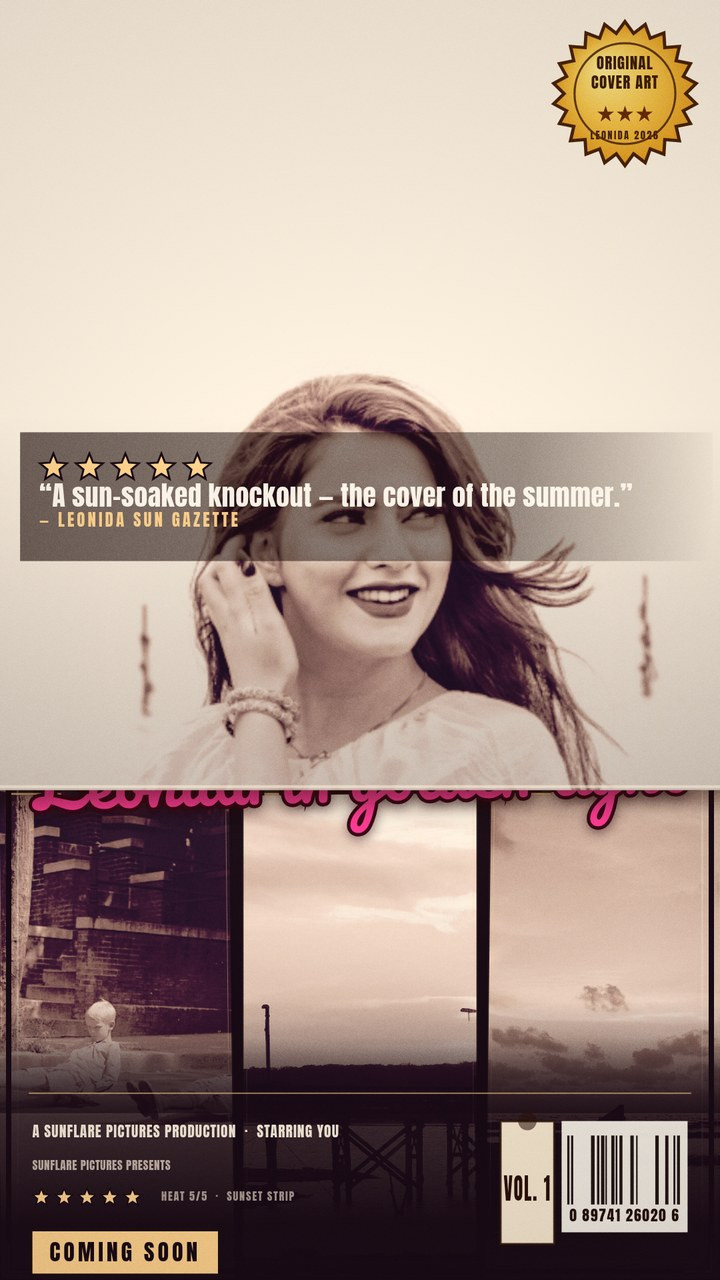
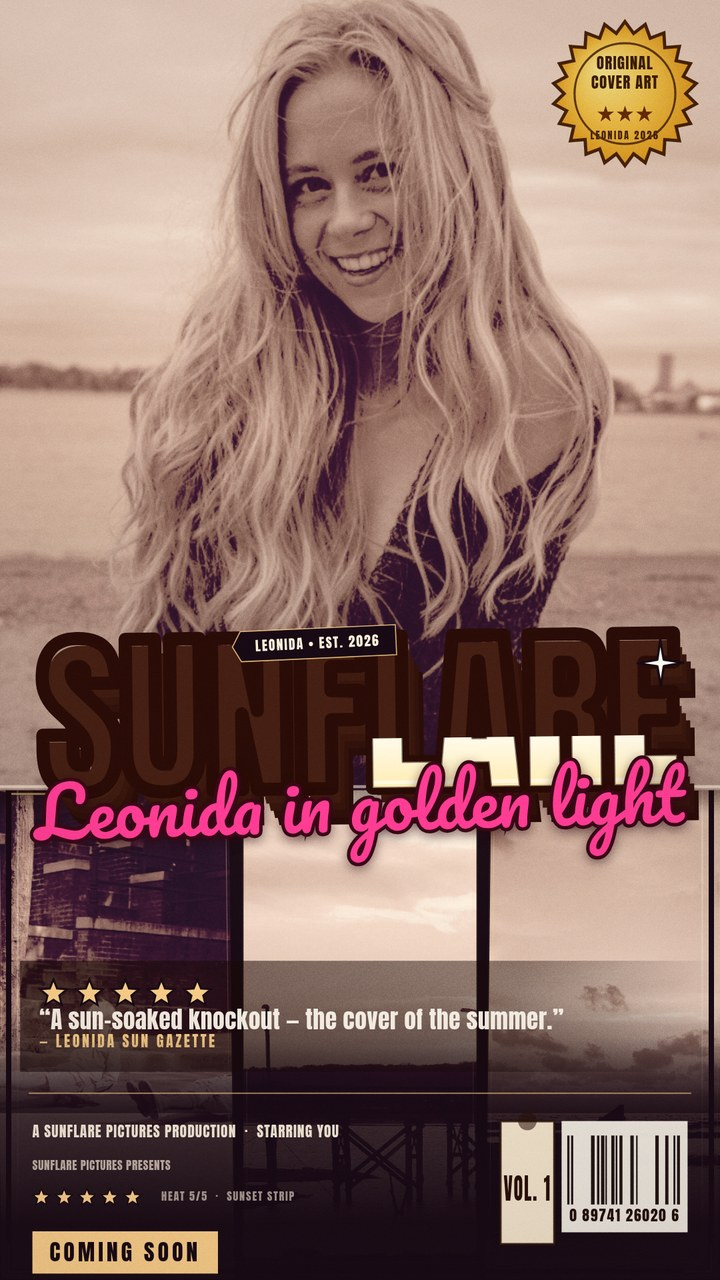
Sunflare: round 5 title/hero/quote fix

diff --git a/app/src/render.js b/app/src/render.js
@@ -4,9 +4,9 @@
 // network.
 //
 // The look is a golden-hour key-art collage: the photo field runs edge to edge,
-// a striped-chrome title sits OVER the art, the pop-out hero breaks in front of
-// it, and a retail band along the bottom carries the billing block, barcode and
-// press quote the way a real poster does.
+// a striped-chrome title sits OVER the art, the pop-out hero breaks out of the
+// grid beneath that title, and a retail band along the bottom carries the
+// billing block, barcode and press quote the way a real poster does.
 
 import { layoutPanels, panelGap } from './layouts.js';
 import { gradeById, gradeLut, skinScore, skinTone, rgba, mixHex } from './grades.js';
@@ -69,14 +69,16 @@ export function planFrame(layoutId, width, height) {
   }
 
   // A tall sheet sets the title across the lower-middle of the art, the way a
-  // key-art poster does, so the hero's face in the top third stays clear of the
-  // pink script. The press quote sits just above it, the retail band below.
+  // key-art poster does. The hero's face sits in the upper part of its panel
+  // (see photoAnchor), so the masthead starts below it. The press quote lives
+  // in the clear band just above the billing footer -- never across the face.
   const inset = Math.round(width * 0.055);
+  const quoteH = Math.round(height * 0.062);
   return {
     landscape, tall, margin, bandH,
     bleed: layoutId === 'hero',
-    masthead: { x: inset, y: Math.round(height * 0.452), w: width - inset * 2, h: Math.round(height * (tall > 1.5 ? 0.268 : 0.272)) },
-    quote: { x: inset, y: Math.round(height * 0.352), w: width - inset * 2, h: Math.round(height * 0.072) },
+    masthead: { x: inset, y: Math.round(height * 0.49), w: width - inset * 2, h: Math.round(height * 0.235) },
+    quote: { x: inset, y: height - bandH - quoteH - Math.round(height * 0.020), w: width - inset * 2, h: quoteH },
     band: { x: 0, y: height - bandH, w: width, h: bandH },
     footer: { x: inset, y: height - bandH, w: width - inset * 2, h: bandH },
     panels: { x: 0, y: 0, w: width, h: height },
@@ -84,10 +86,11 @@ export function planFrame(layoutId, width, height) {
 }
 
 /** Where a framed face sits inside its panel: right of centre on a landscape
- *  sheet (the title takes the left), lower-centre on a tall one. */
+ *  sheet (the title takes the left), upper-centre on a tall one so the masthead
+ *  and the press quote both sit clear of the face. */
 export function photoAnchor(plan) {
   if (plan.landscape) return { x: 0.52, y: 0.40 };
-  return { x: 0.5, y: 0.56 };
+  return { x: 0.5, y: 0.34 };
 }
 
 /* ------------------------------------------------------------------ helpers */
@@ -792,8 +795,9 @@ function drawTicketTab(ctx, x, y, w, h, palette, label = 'VOL. 1') {
 
 /**
  * The five-star press quote. On a landscape sheet it sits in the top-left
- * corner over the art; on a tall sheet it sits under the title. Stars first,
- * then the quote, then the paper that said it.
+ * corner over the art; on a tall sheet it sits in the clear band just above the
+ * billing footer. Neither position crosses the hero's face. Stars first, then
+ * the quote, then the paper that said it.
  */
 function drawPressQuote(ctx, state, plan, palette, size) {
   const q = plan.quote;
@@ -959,11 +963,11 @@ function drawVignette(ctx, w, h, palette) {
 }
 
 /**
- * The pop-out hero: the hero panel's photo cut out at a larger scale and drawn
- * IN FRONT of the title, so the subject breaks the grid the way a key-art
- * cut-out does. A soft shadow under it and a fade into the retail band keep it
- * from looking pasted on. Tall sheets clip it below the title so the lettering
- * stays clean.
+ * The pop-out hero: the hero panel's photo cut out at a larger scale so the
+ * subject breaks the grid the way a key-art cut-out does. It is painted before
+ * the masthead, so the title always sits on top of it -- the hero never hides
+ * the lettering. A soft shadow under it and a fade into the retail band keep it
+ * from looking pasted on. Tall sheets clip it below the title band.
  */
 function drawPopout(ctx, state, plan, palette, graded, size) {
   if (!state.popout) return;
@@ -1098,8 +1102,10 @@ export function drawCover(ctx, state, images, width, height) {
 
   if (state.posterInk !== false) drawInkFrame(ctx, plan, palette, size);
 
-  drawMasthead(ctx, state, plan, palette, size);
+  // The hero pops out larger than its panel, but the title always paints on
+  // top of it: the winning formula is a huge gradient title OVER the art.
   drawPopout(ctx, state, plan, palette, graded, size);
+  drawMasthead(ctx, state, plan, palette, size);
 
   if (state.kit?.quote) drawPressQuote(ctx, state, plan, palette, size);
   drawSealTop(ctx, state, plan, palette, size);

diff --git a/app/src/shots.js b/app/src/shots.js
@@ -12,9 +12,9 @@
 
 /**
  * The four judged scenes, all golden hour: the landscape cover is the hero
- * mosaic (the app's own default) with the sunlit hero popped out in front of the
- * title; the tall crops restack the same cast so the contact sheet never shows
- * one photo three times.
+ * mosaic (the app's own default) with the sunlit hero popped out over its panel
+ * while the title still paints on top; the tall crops restack the same cast so
+ * the contact sheet never shows one photo three times.
  */
 export const SHOT_PRESETS = {
   cover1: { layout: 'mosaic', grade: 'golden', style: 'chrome', preview: 'landscape', popout: true, photo: 'hero,beach,car,pool,tower' },
@@ -55,7 +55,7 @@ export async function runShot(shot, query, studio) {
   // A per-panel crop table with genuinely different values for each index; the
   // photo rotates through the picked list so the cast varies too.
   const CROPS = [
-    [1.04, 0.02, -0.06], [1.19, -0.34, 0.24], [1.09, 0.30, -0.26],
+    [1.04, 0.00, 0.00], [1.19, -0.34, 0.24], [1.09, 0.30, -0.26],
     [1.27, 0.16, 0.32], [1.04, -0.14, -0.34], [1.16, 0.36, 0.12],
     [1.13, -0.28, -0.20], [1.24, 0.08, 0.30], [1.02, -0.06, 0.04],
   ];

diff --git a/app/index.html b/app/index.html
@@ -149,7 +149,7 @@
         <h2>Poster Finish</h2>
         <label class="switch"><input id="posterInk" type="checkbox" checked> <span>Poster ink frame</span></label>
         <label class="switch"><input id="skyGlow" type="checkbox" checked> <span>Sky glow</span></label>
-        <label class="switch"><input id="popout" type="checkbox" checked> <span>Pop-out hero (in front of title)</span></label>
+        <label class="switch"><input id="popout" type="checkbox" checked> <span>Pop-out hero (title stays on top)</span></label>
         <label class="switch"><input id="compare" type="checkbox"> <span>Before / after (original)</span></label>
         <label class="switch"><input id="grain" type="checkbox" checked> <span>Film grain</span></label>
         <label class="switch"><input id="vignette" type="checkbox" checked> <span>Vignette</span></label>

diff --git a/app/src/layouts.js b/app/src/layouts.js
@@ -58,7 +58,9 @@ export function layoutPanels(id, area, gap) {
     case 'mosaic': {
       // One dominant hero on the right, a stack of three down the left and a
       // wide strip along the bottom -- five panels, every edge slanted.
-      const hw = area.w * 0.655;
+      // The hero panel is capped at 44% of the cover width so the mosaic keeps
+      // at least half the width: a wider hero panel would sit over the title.
+      const hw = Math.min(area.w * 0.655, area.w * 0.44);
       const hero = rect(area.x + area.w - hw, area.y, hw, area.h * 0.78, { hero: true, skew: -slant });
       const leftW = area.w - hw - gap * 0.4;
       const thirdH = (area.h * 0.78 - gap * 2) / 3;

diff --git a/README.md b/README.md
@@ -4,7 +4,7 @@
 [![rank](https://make.fun/badge/gta6-cover-art-01/basecil/gta6-cover-art-01/rank.svg)](https://make.fun/bounty/gta6-cover-art-01)
 [![reward](https://make.fun/badge/gta6-cover-art-01/basecil/gta6-cover-art-01/reward.svg)](https://make.fun/bounty/gta6-cover-art-01)
 
-A golden-hour GTA-style cover studio for the [Make GTA 6 Cover Art](https://make.fun/bounty/gta6-cover-art-01) bounty: drop in a photo and it opens on a hero-mosaic key-art poster — five slanted panels with one dominant sunlit face, the striped-chrome title over the art, and the hero cut out in front of it — then lets you build a grid, a comic, a triptych or any of ten layouts and export a PNG at whatever size you need. No build step, no network, no account: plain static files on a tiny Node server.
+A golden-hour GTA-style cover studio for the [Make GTA 6 Cover Art](https://make.fun/bounty/gta6-cover-art-01) bounty: drop in a photo and it opens on a hero-mosaic key-art poster — five slanted panels with one dominant sunlit face, the striped-chrome title over the art, and the hero cut out over the grid beneath that title — then lets you build a grid, a comic, a triptych or any of ten layouts and export a PNG at whatever size you need. No build step, no network, no account: plain static files on a tiny Node server.
 
 Competition entry: https://make.fun/bounty/gta6-cover-art-01
 
@@ -22,7 +22,7 @@ Then open http://localhost:8080 in a desktop browser. The eight sunlit sample ph
 - **8 sun-tuned grades** — Golden Hour (the default), Coral Dusk, Vice Sunset, Sunset Strip, Heatwave, Palm Teal, Neon Night and Mono Noir; one palette across every panel, and every grade keeps faces on a warm skin band.
 - **Striped-chrome lettering** — Anton title in a cream→yellow→orange gradient with magenta and purple stripes through the lower half, a thick dark outline and a sparkle, set **over** the art; a hot-pink Pacifico script subtitle overlaps the title base; editable title, subtitle, footer, badge ribbon and press quote.
 - **Retail kit** — gold starburst seal ("ORIGINAL COVER ART ★★★"), barcode, billing block ("A SUNFLARE PICTURES PRODUCTION · STARRING YOU"), a five-star press quote, a **VOL. 1** ticket tab and a **COMING SOON** line; every piece is its own toggle and all are on by default.
-- **Pop-out hero** — cuts the hero out larger than its panel and sets it **in front of** the title; on by default in the hero-mosaic layout.
+- **Pop-out hero** — cuts the hero out larger than its panel and pops it out over the grid while the title still paints **on top**; on by default in the hero-mosaic layout.
 - **4 export sizes** — 1080×1080 square, 1080×1350 portrait, 1920×1080 landscape, 1080×1920 story, each exported on its own or all at once.
 - **Per-panel crops** — drag a panel to reposition, scroll to zoom, swap its photo, or re-center; every panel keeps its own crop, and role tags print beside each panel.
 - **Golden finish** — sky glow, poster ink frame, optional halftone plate, film grain and vignette, plus a **before/after** toggle that shows the original photo against the graded one.
